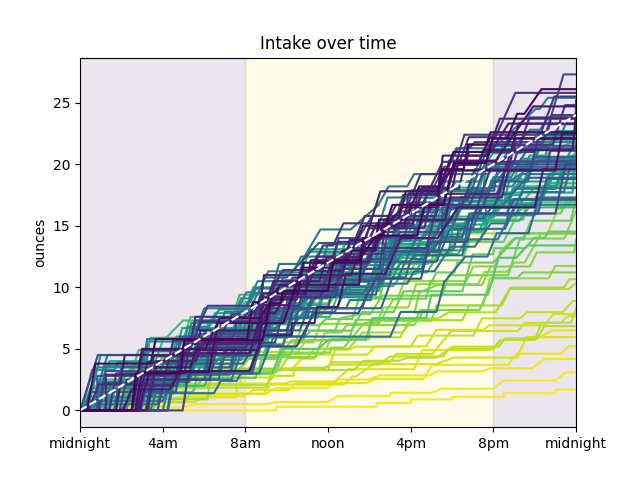
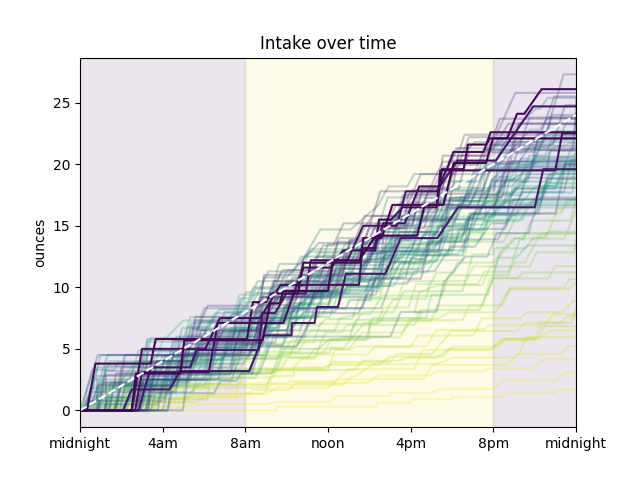
fade points from over a week ago to highlight recent data

Changed region(s): [[0.125, 0.1562, 0.9062, 0.875]]

diff --git a/datita.py b/datita.py
@@ -62,7 +62,6 @@ def read_percentiles(percentile_type, gender, n_months):
     f = open('percentiles_{type}_{gender}.txt'.format(type=percentile_type, gender=gender), 'r')
     lines = f.readlines()
 
-
     if percentile_type == 'weight-length':
         all_lengths = numpy.zeros(len(lines))
         max_length = math.ceil(n_months) + 1
@@ -316,7 +315,11 @@ def plot_sleep(data_sleep, n_days_sleep):
     for i in range(len(data_sleep)):
         start_time = parse_time(data_sleep[i][0])
         color = colormap(norm((data_sleep[i][0] - data_sleep[0][0]).days))
-        plt.plot(start_time, data_sleep[i][1], color=color, marker='.', markersize=8)
+        if (data_sleep[-1][0] - data_sleep[i][0]).days < 8:
+            alpha = 1
+        else: 
+            alpha = 0.25
+        plt.plot(start_time, data_sleep[i][1], color=color, marker='o', alpha=alpha)
 
     plt.subplot2grid((3,3), (0,2), colspan=1, rowspan=3)
     plt.ylim([0, 488])
@@ -386,7 +389,11 @@ def plot_sleep(data_sleep, n_days_sleep):
     for i in range(len(data_wake)):
         time = parse_time(data_wake[i][0].time())
         color = colormap(norm((data_wake[i][0] - max_sleep[0][0]).days))
-        plt.plot(time, data_wake[i][1], 'o', color=color)
+        if (data_wake[-1][0] - data_wake[i][0]).days < 8:
+            alpha = 1
+        else: 
+            alpha = 0.25
+        plt.plot(time, data_wake[i][1], 'o', color=color, alpha=alpha)
         wakes.append(data_wake[i][1])
 
     plt.subplot2grid((3,3), (0,2), colspan=1, rowspan=3)
@@ -487,7 +494,11 @@ def plot_feeding(data_feeding):
 
         color = colormap(norm((feeding_dates[i] - data_feeding[0][0].date()).days))
         if i < len(feeding_dates) - 1:
-            plt.plot(x, y, linestyle='-', color=color)
+            if i > len(feeding_dates) - 8: 
+                alpha = 1.
+            else: 
+                alpha = 0.3
+            plt.plot(x, y, linestyle='-', color=color, alpha=alpha)
 
     plt.plot([0, 24], [0, 24], '--', color='white')
     plt.savefig('feeding_over_time.png')
@@ -515,17 +526,18 @@ def plot_feeding(data_feeding):
     week_ticks(data_feeding, label_type)
     time_ticks('y')
     
-    size = [2, 4, 6, 8, 10, 12]
-    color = [0.1, 0.2, 0.4, 0.6, 0.8, 1.0]
-    label = ['1oz', '2oz', '3oz', '4oz', '5oz', '6+oz']
+    size = [2, 3, 5, 6, 7, 8, 10, 12]
+    color = [0.0, 0.1, 0.2, 0.35, 0.5, 0.7, 0.9, 1.0]
+    label = ['1oz', '2oz', '3oz', '4oz', '5oz', '6oz', '7oz', '8+oz']
 
     for i in range(len(feeding_time)): 
         x = feeding_time[i].date()
         y = parse_time(feeding_time[i])
         z = int(math.ceil(feeding_amount[i]))
-        if z > 6: 
-            z = 6
-        plt.plot(x, y, marker='o', markerfacecolor=colormap(color[z-1]), markeredgecolor=colormap(color[z-1]), markersize=size[z-1])
+        if z > len(size): 
+            z = len(size)
+        if z > 0:
+            plt.plot(x, y, marker='o', markerfacecolor=colormap(color[z-1]), markeredgecolor=colormap(color[z-1]), markersize=size[z-1])
     
     handles = size_color_legend(size, color, label)
     plt.gca().legend(handles=handles, loc='lower left')    
@@ -538,7 +550,12 @@ def plot_feeding(data_feeding):
     for i in range(1, len(feeding_time)):
         interval = (feeding_time[i] - feeding_time[i-1]).seconds/3600.
         color = colormap(norm((feeding_time[i].date() - birthdate).days))
-        plt.plot(interval, feeding_amount[i], color=color, marker='.', markersize=8)
+        if (feeding_time[-1] - feeding_time[i]).days < 8:
+            alpha = 1
+        else: 
+            alpha = 0.25
+        plt.plot(interval, feeding_amount[i], color=color, marker='o', alpha=alpha)
+
     plt.plot([0, 6], [0, 6], 'k--')
     plt.gca().set_xlim([0, 8])
     plt.xlabel('hours')
